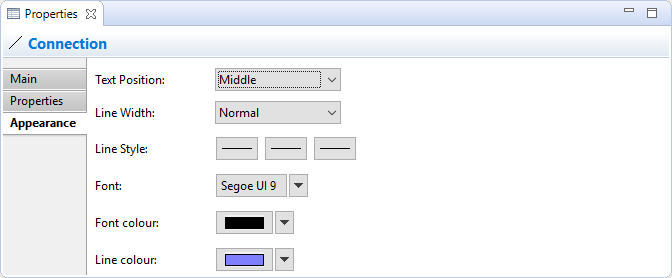
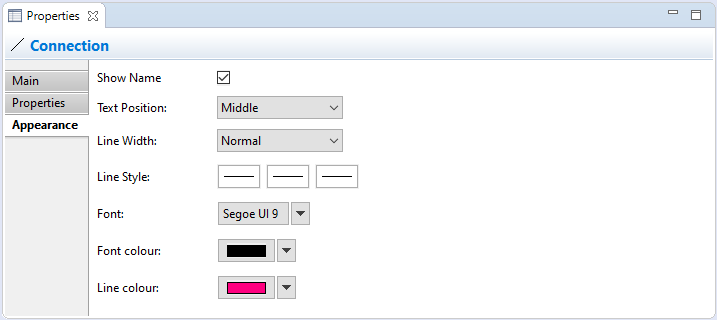
[Help] Add help for connection name visible

diff --git a/com.archimatetool.help/help/Text/properties_note_connection.html b/com.archimatetool.help/help/Text/properties_note_connection.html
@@ -10,9 +10,9 @@
 
 <body>
 
-    <h2>Note Connection Properties</h2>
+    <h2>Connection Properties</h2>
     
-    <p>Selecting a Note Connection in a View means that you can edit or view its  properties in the  Properties Window.</p>
+    <p>Selecting a Connection in a View means that you can edit or view its properties in the Properties Window.</p>
     
     <br/>
     
@@ -46,6 +46,10 @@
     <p class="caption">Editing the "Appearance" Properties for a Connection in a View</p>
     
     <table>
+      <tr valign="top">
+        <td><strong>Show Name:</strong></td>
+        <td>If selected will show the label if the connection's text is set.</td>
+      </tr>
       <tr valign="top">
         <td><strong>Text Position:</strong></td>
         <td>Sets the position of the text that will appear next to the line on the View. Options are "Source", "Middle" and "Target".</td>

diff --git a/com.archimatetool.help/help/Text/properties_relation_appearance.html b/com.archimatetool.help/help/Text/properties_relation_appearance.html
@@ -25,6 +25,10 @@
     
     <table>
       <tr valign="top">
+        <td><strong>Show Name:</strong></td>
+        <td>If selected will show the label if the connection's text is set.</td>
+      </tr>
+      <tr valign="top">
         <td><strong>Text Position:</strong></td>
         <td>Specifies the position of the text that will appear next to the line on the View. Options are "Source", "Middle" and "Target".</td>
       </tr>

diff --git a/com.archimatetool.help/help/Text/properties_canvas_connection.html b/com.archimatetool.help/help/Text/properties_canvas_connection.html
@@ -57,6 +57,10 @@
 
     <table>
       <tr valign="top">
+        <td><strong>Show Name:</strong></td>
+        <td>If selected will show the label if the connection's text is set.</td>
+      </tr>
+      <tr valign="top">
         <td ><strong>Text Position:</strong></td>
         <td>Sets the position of the text that will appear next to the line on the View. Options are "Source", "Middle" and "Target".</td>
       </tr>
